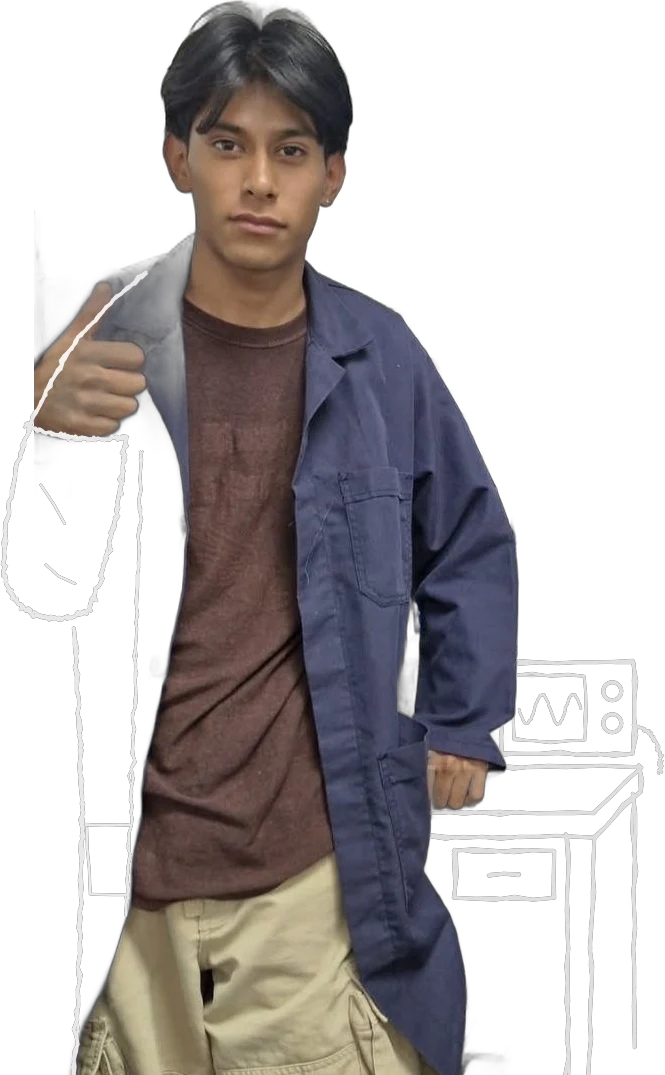
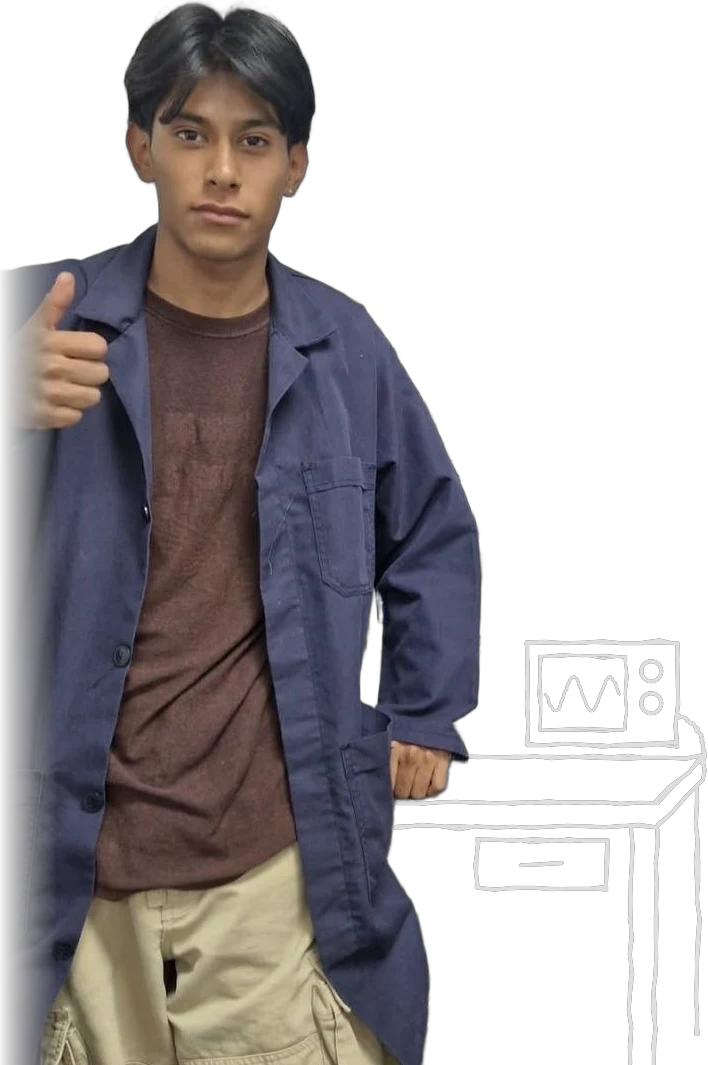
Hero: recorte completo de la bata sin trazos, mesa más larga; botón Volver en verde fluorescente

diff --git a/index.html b/index.html
@@ -63,7 +63,7 @@ a{color:inherit;text-decoration:none}
   color:var(--p2);opacity:.92;user-select:none;
   background:linear-gradient(180deg,#a43dff 0%,#7a1fe0 55%,rgba(60,13,120,.25) 100%);-webkit-background-clip:text;background-clip:text;-webkit-text-fill-color:transparent;
 }
-.hero-photo{position:absolute;z-index:-1;left:50%;bottom:0;transform:translateX(-13%);height:min(84vh,680px);width:auto;max-width:none;filter:grayscale(.15) contrast(1.05)}
+.hero-photo{position:absolute;z-index:-1;left:50%;bottom:0;transform:translateX(-13%);height:min(84vh,660px);width:auto;max-width:none;filter:grayscale(.15) contrast(1.05)}
 .hero-photo-glow{position:absolute;z-index:-2;left:50%;bottom:-10%;transform:translateX(-50%);width:640px;height:640px;border-radius:50%;background:radial-gradient(closest-side,rgba(155,48,255,.35),transparent)}
 .hero .wrap{position:relative;z-index:2;display:grid;grid-template-columns:1fr 1fr;align-items:end;min-height:calc(100vh - 76px);padding-bottom:72px}
 .hello{font:500 clamp(28px,3vw,40px)/1 var(--f-body);font-style:italic;margin-bottom:10px}
@@ -182,6 +182,8 @@ section{position:relative}
 .story-btn:hover svg{transform:translateX(4px)}
 @keyframes storyPulse{0%{box-shadow:0 0 0 0 rgba(200,255,31,.55),0 10px 30px -8px rgba(200,255,31,.6)}70%{box-shadow:0 0 0 14px rgba(200,255,31,0),0 10px 30px -8px rgba(200,255,31,.6)}100%{box-shadow:0 0 0 0 rgba(200,255,31,0),0 10px 30px -8px rgba(200,255,31,.6)}}
 .nav a[data-story]{color:#c8ff1f}
+#storyBack{background:#c8ff1f;color:#0a0a0c;font-weight:800;text-transform:uppercase;letter-spacing:.02em;box-shadow:0 10px 30px -8px rgba(200,255,31,.6)}
+#storyBack:hover{background:#dbff5c}
 
 /* mi historia: pantalla completa por capítulos */
 .story{width:100%;height:100%;max-width:none;max-height:none;margin:0;padding:0;border:0;background:var(--bg);color:var(--white);overflow-y:auto;overflow-x:hidden}
@@ -249,12 +251,12 @@ section{position:relative}
    >1180 escritorio · 901–1180 laptop chica · ≤900 tablet (hero apilado, hamburguesa) · ≤640 celular · ≤380 celular chico */
 /* pantallas medianas: la foto se corre a la derecha y baja de tamaño para no tapar el texto */
 @media (min-width:901px) and (max-width:1320px){
-  .hero-photo{height:min(80vh,640px);transform:translateX(-28%)}
+  .hero-photo{height:min(80vh,600px);transform:translateX(-30%)}
   .lead,.role{max-width:330px}
   .name{font-size:clamp(50px,5.6vw,72px)}
 }
 @media (min-width:901px) and (max-width:1050px){
-  .hero-photo{height:min(66vh,500px);transform:translateX(-27%)}
+  .hero-photo{height:min(60vh,470px);transform:translateX(-27%)}
 }
 @media (max-width:1180px){
   .stack{grid-template-columns:1fr 1fr}
@@ -269,7 +271,7 @@ section{position:relative}
   .hero{min-height:auto}
   .hero .wrap{grid-template-columns:1fr;min-height:0;padding-top:430px;padding-bottom:40px;gap:30px}
   .ghost{top:110px;font-size:24vw}
-  .hero-photo{height:520px;bottom:auto;top:96px;transform:translateX(-40%)}
+  .hero-photo{height:520px;bottom:auto;top:96px;transform:translateX(-35%)}
   .hero::after{top:440px;height:180px;bottom:auto}
   .hero-photo-glow{top:120px;bottom:auto;width:460px;height:460px}
   .hero-right{justify-self:stretch;align-items:stretch}
